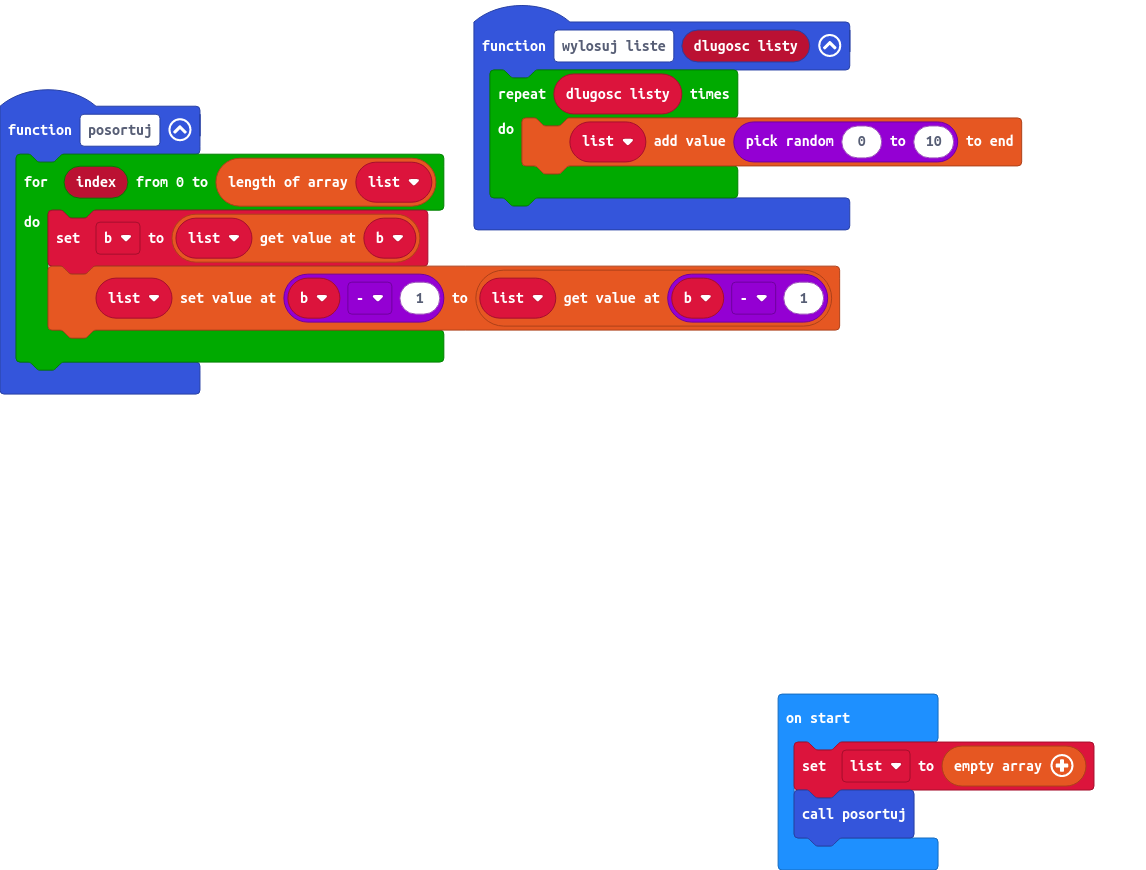
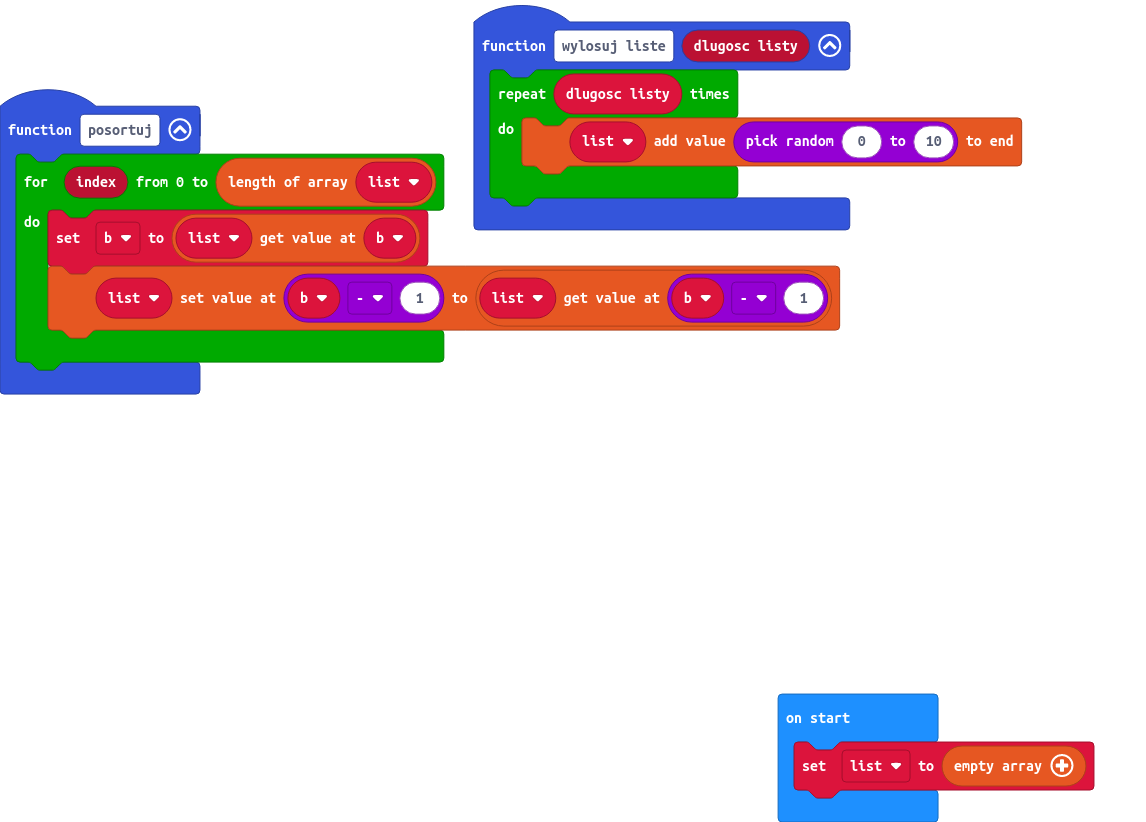
Update main.blocks, main.ts

Changed region(s): [[0.0, 0.0, 0.8857, 0.4866], [0.6719, 0.7908, 0.9773, 0.9732]]

diff --git a/main.ts b/main.ts
@@ -12,4 +12,3 @@ function wylosuj_liste (dlugosc_listy: number) {
 let b = 0
 let list: number[] = []
 list = []
-posortuj()
